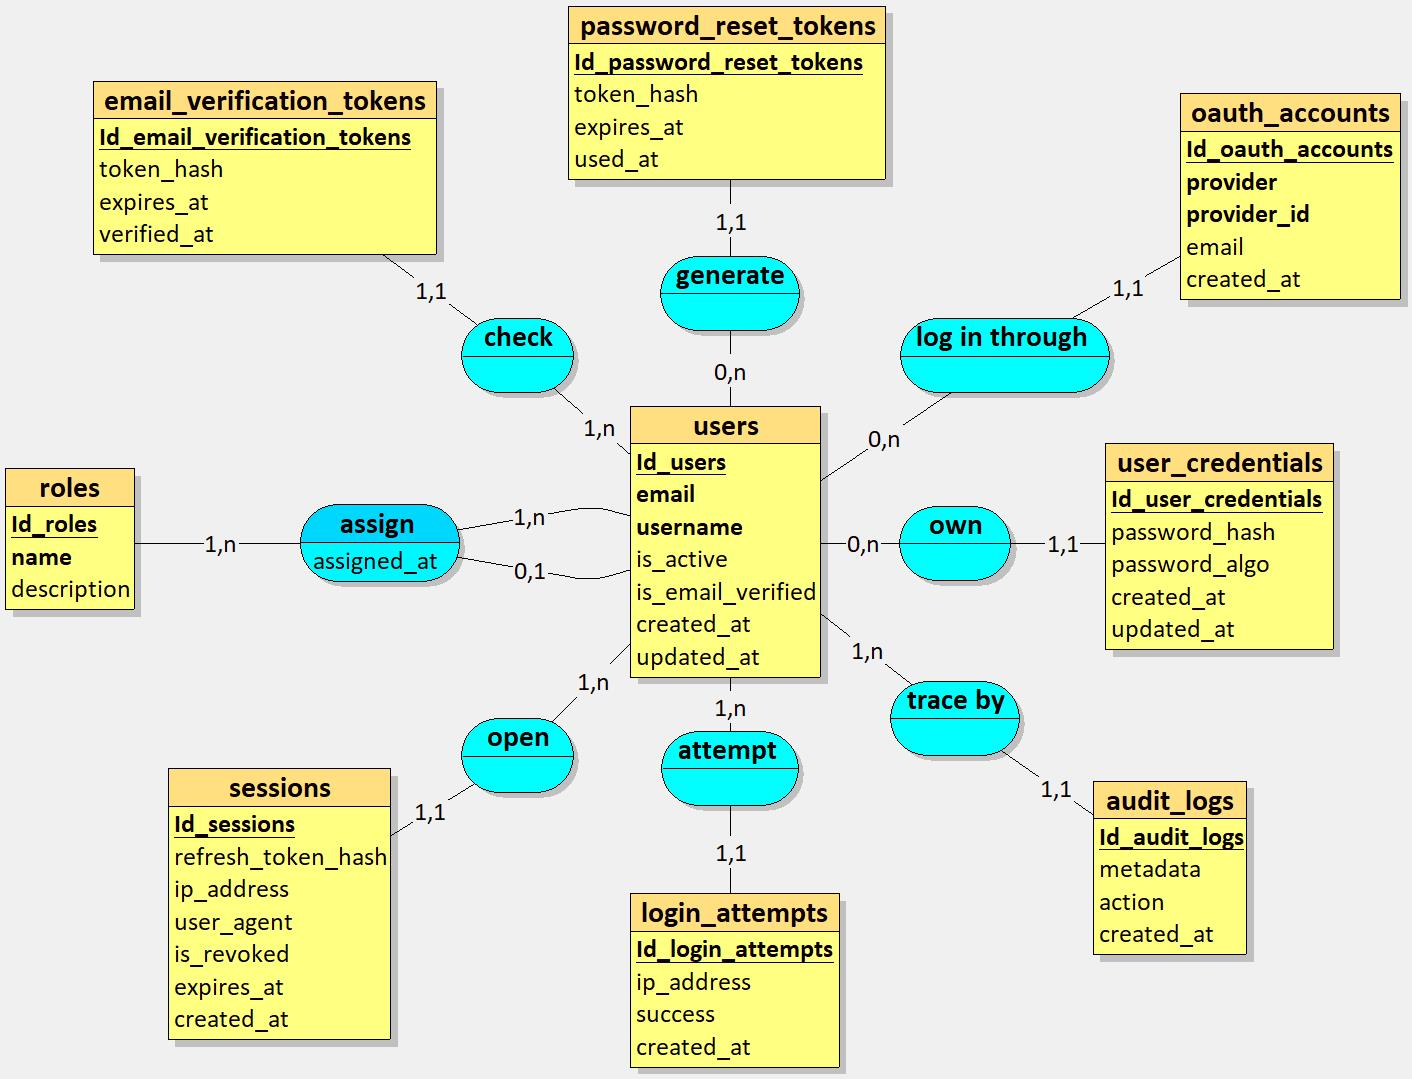
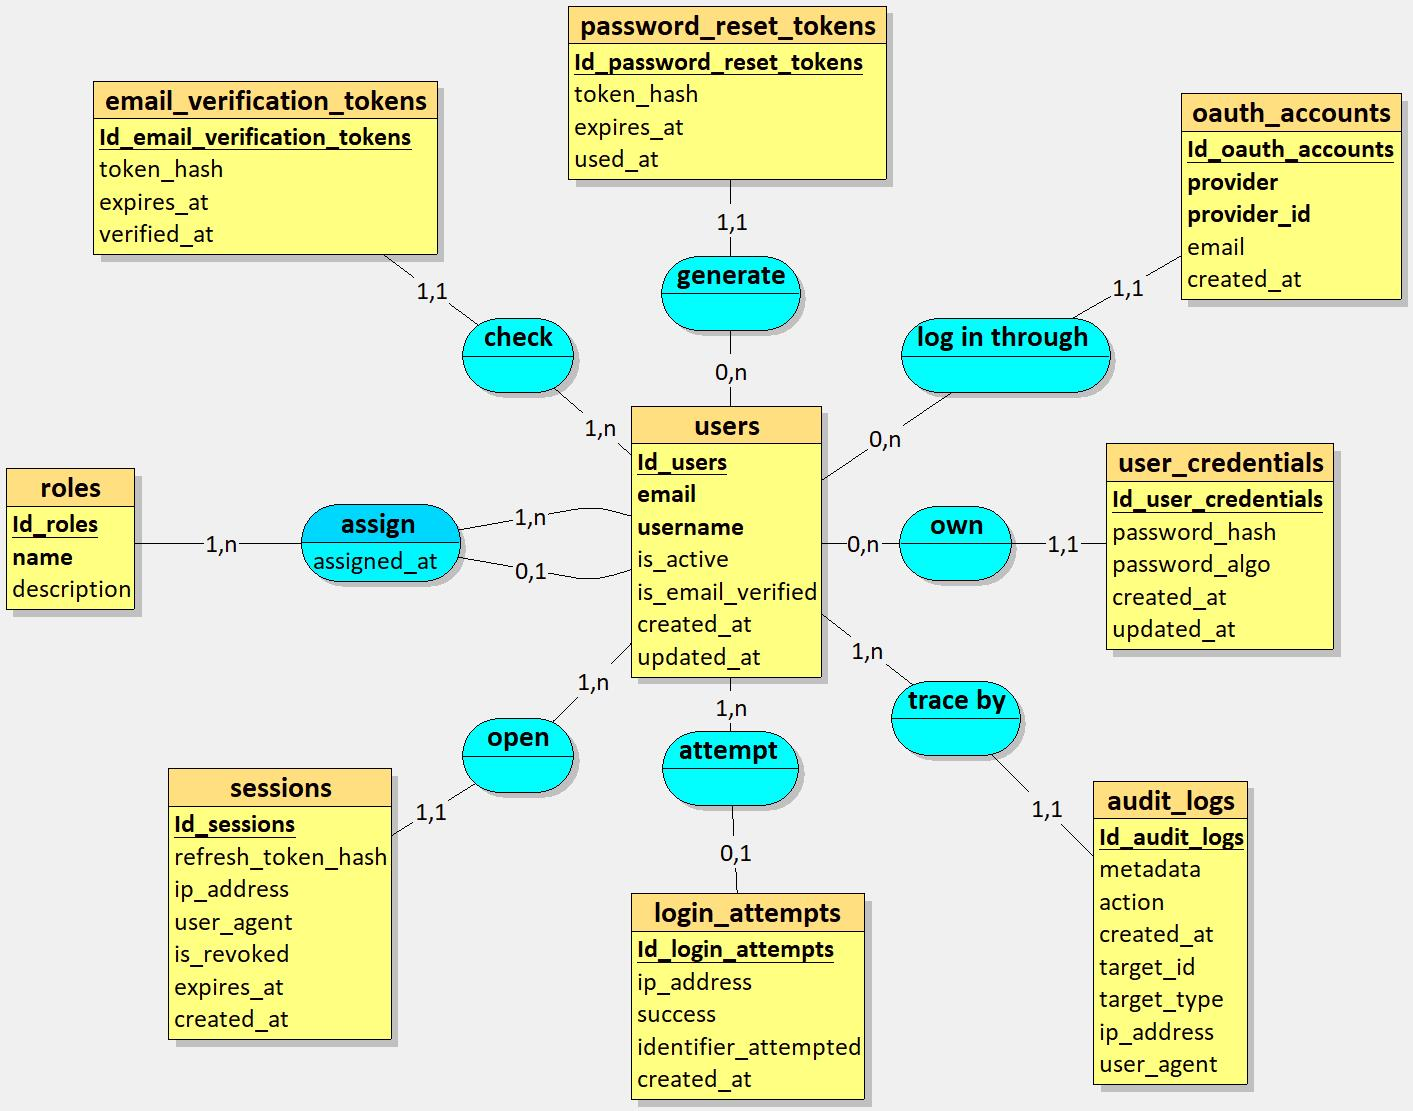
change merise readme

diff --git a/docs/db/README.md b/docs/db/README.md
@@ -87,13 +87,14 @@ Token is stored hashed for security reasons.
 Token is stored hashed for security reasons.
 
 ### 7. login_attempts
-| Field Name       | Type     | Constraints                 | Description              |
-| ---------------- | -------- | --------------------------- | ------------------------ |
-| id_login_attempt | UUID     | PK, generated automatically | Login attempt identifier |
-| ip_address       | text     | not null                    | Client IP address        |
-| success          | boolean  | not null                    | Login success or failure |
-| created_at       | datetime | not null                    | Attempt date             |
-| id_user          | UUID     | FK → users(id_user)         | Related user             |
+| Field Name           | Type         | Constraints                 | Description              |
+| -------------------- | ------------ | --------------------------- | ------------------------ |
+| id_login_attempt     | UUID         | PK, generated automatically | Login attempt identifier |
+| ip_address           | text         | not null                    | Client IP address        |
+| success              | boolean      | not null                    | Login success or failure |
+| created_at           | datetime     | not null                    | Attempt date             |
+| identifier_attempted | varchar(100) | not null                    | identifier used for log  |
+| id_user              | UUID         | FK → users(id_user)         | Related user             |
 
 ### 8. oauth_accounts
 | Field Name       | Type                       | Constraints                 | Description                           |
@@ -106,13 +107,17 @@ Token is stored hashed for security reasons.
 | id_user          | UUID                       | FK → users(id_user)         | Related user                          |
 
 ### 9. audit_logs
-| Field Name   | Type     | Constraints                 | Description          |
-| ------------ | -------- | --------------------------- | -------------------- |
-| id_audit_log | UUID     | PK, generated automatically | Audit log identifier |
-| metadata     | jsonb    | null                        | Additional metadata  |
-| action       | text     | not null                    | Performed action     |
-| created_at   | datetime | not null                    | Action date          |
-| id_user      | UUID     | FK → users(id_user)         | Related user         |
+| Field Name   | Type        | Constraints                 | Description              |
+| ------------ | ----------- | --------------------------- | ------------------------ |
+| id_audit_log | UUID        | PK, generated automatically | Audit log identifier     |
+| metadata     | jsonb       | null                        | Additional metadata      |
+| action       | text        | not null                    | Performed action         |
+| created_at   | datetime    | not null                    | Action date              |
+| id_user      | UUID        | FK → users(id_user)         | Related user             |
+| target_type  | varchar(50) | null                        | Target entity type       |
+| target_id    | UUID        | null                        | Target entity identifier |
+| ip_address   | text        | not null                    | Origin IP address        |
+| user_agent   | text        | not null                    | Client user agent        |
 
 ### 10. user_roles (Association table)
 | Field Name  | Type     | Constraints             | Description      |
@@ -140,13 +145,13 @@ MPD is a specific implementation for PostgreSQL, including data types, constrain
 1. **users** = (Id_user UUID , email VARCHAR(100), username VARCHAR(100), is_active boolean, is_email_verified boolean, created_at DATETIME, updated_at DATETIME);
 2. **user_credentials** = (Id_user_credential UUID , password_hash TEXT, password_algo TEXT, created_at DATETIME, updated_at DATETIME, #Id_user);
 3. **roles** = (Id_role UUID , name VARCHAR(50), description TEXT);
-   1. **sessions** = (Id_session UUID , refresh_token_hash TEXT, ip_address TEXT, user_agent TEXT, is_revoked boolean, expires_at DATETIME, created_at DATETIME, #Id_user);
-4. **password_reset_tokens**  = (Id_password_reset_token UUID , token_hash TEXT, expires_at DATETIME, used_at DATETIME, #Id_user);
-5. **email_verification_tokens**  = (Id_email_verification_token UUID , token_hash TEXT, expires_at DATETIME, verified_at DATETIME, #Id_user);
-6. **login_attempts**  = (Id_login_attempt UUID , ip_address TEXT, success boolean, created_at DATETIME, #Id_user);
-7. **oauth_accounts**  = (Id_oauth_account UUID , provider oauth_provider_type, provider_id VARCHAR(50), email VARCHAR(50), created_at DATETIME, #Id_user);
-8. **audit_logs**  = (Id_audit_log UUID , metadata jsonb, action TEXT, created_at DATETIME, #Id_user);
-9.  **user_roles** = (#Id_user, #Id_role, assigned_by UUID, assigned_at DATETIME); -- PRIMARY KEY (id_user, id_role)
+4. **sessions** = (Id_session UUID , refresh_token_hash TEXT, ip_address TEXT, user_agent TEXT, is_revoked boolean, expires_at DATETIME, created_at DATETIME, #Id_user);
+5. **password_reset_tokens**  = (Id_password_reset_token UUID , token_hash TEXT, expires_at DATETIME, used_at DATETIME, #Id_user);
+6. **email_verification_tokens**  = (Id_email_verification_token UUID , token_hash TEXT, expires_at DATETIME, verified_at DATETIME, #Id_user);
+7. **login_attempts**  = (Id_login_attempt UUID , ip_address TEXT, success boolean, created_at DATETIME,identifier_attempted varchar(100),#Id_user);
+8. **oauth_accounts**  = (Id_oauth_account UUID , provider oauth_provider_type, provider_id VARCHAR(50), email VARCHAR(50), created_at DATETIME, #Id_user);
+9. **audit_logs** = (Id_audit_log UUID, action TEXT,target_type VARCHAR(50), target_id UUID, ip_address TEXT,user_agent TEXT, metadata JSONB, created_at DATETIME, #Id_user);
+10.  **user_roles** = (#Id_user, #Id_role, assigned_by UUID, assigned_at DATETIME); -- PRIMARY KEY (id_user, id_role)
 
 ### Tables and Constraints
 - Primary keys use `UUID` generated by `gen_random_uuid()` for better security.
@@ -179,8 +184,17 @@ CREATE UNIQUE INDEX ux_users_email ON users(email);
 CREATE UNIQUE INDEX ux_users_username ON users(username);
 
 -- Refresh token lookup
-CREATE UNIQUE INDEX ux_sessions_refresh_token
-ON sessions(refresh_token_hash);
+CREATE INDEX ix_sessions_user_active
+ON sessions(user_id)
+WHERE is_revoked = false;
+
+-- audit lookup
+CREATE INDEX ix_audit_logs_user
+ON audit_logs(user_id);
+
+-- audit lookup
+CREATE INDEX ix_audit_logs_target
+ON audit_logs(target_type, target_id);
 
 -- Active sessions per user
 CREATE INDEX ix_sessions_user_active
